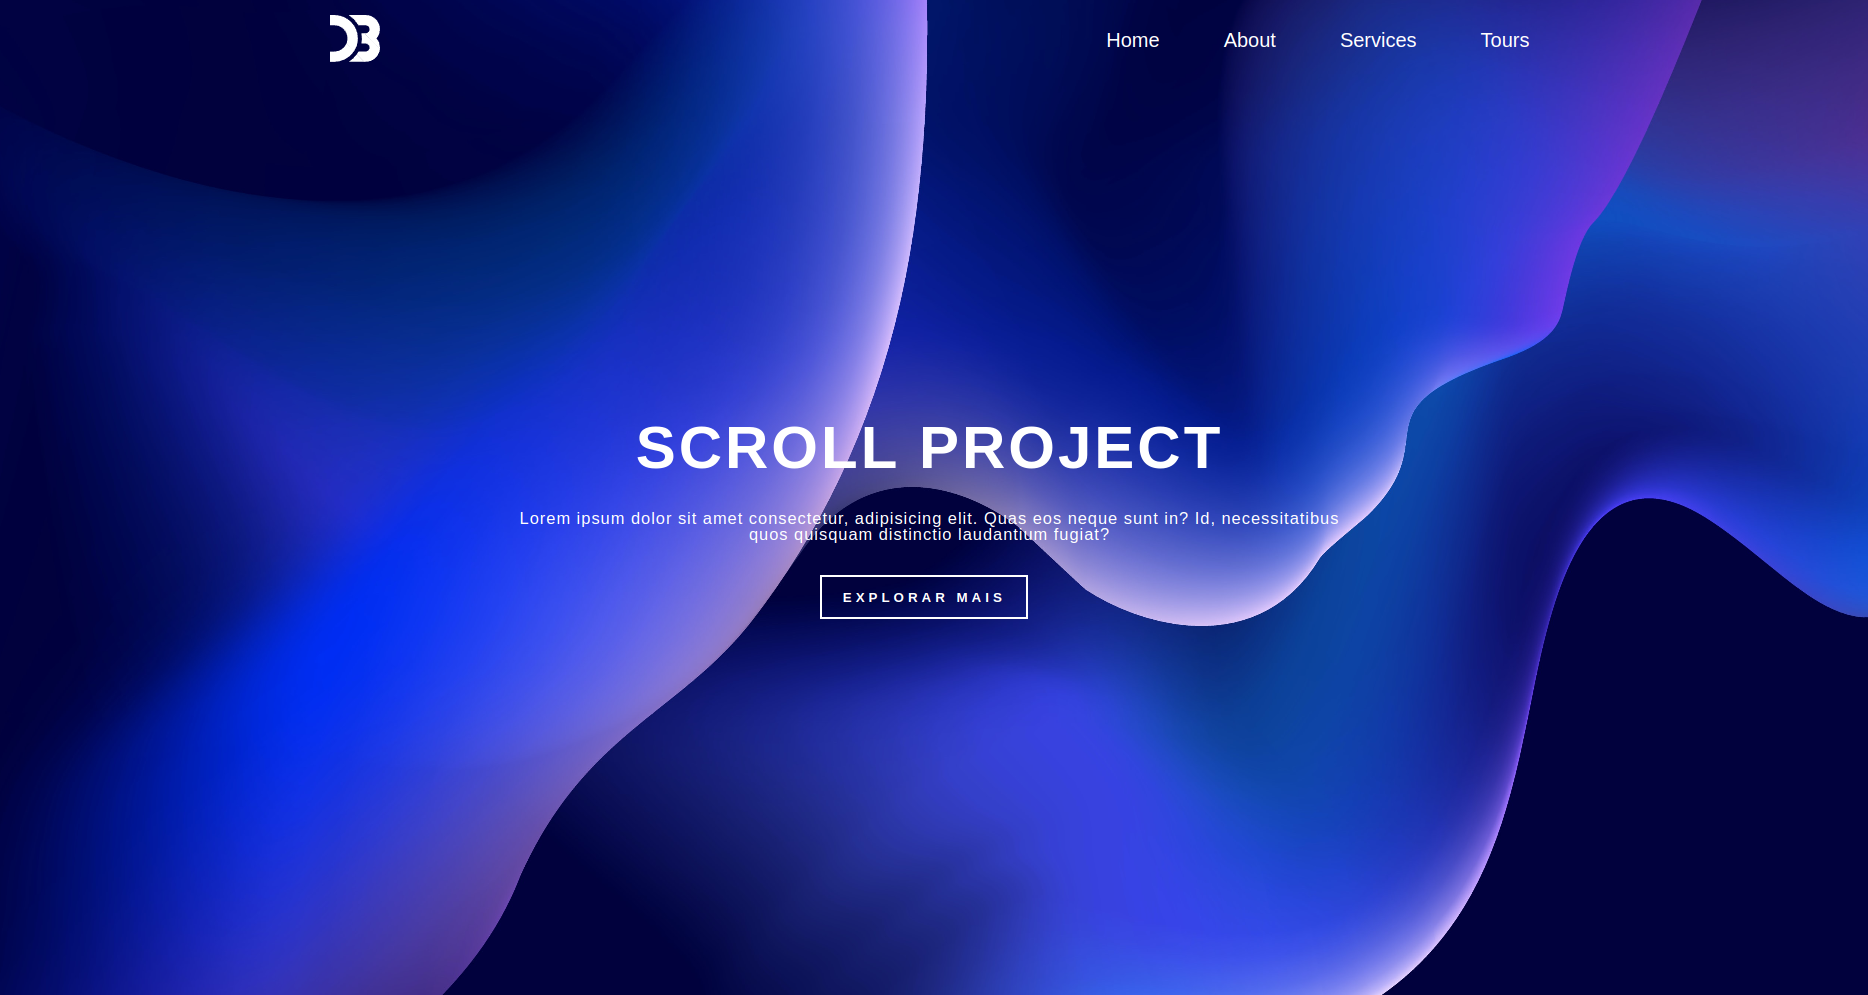
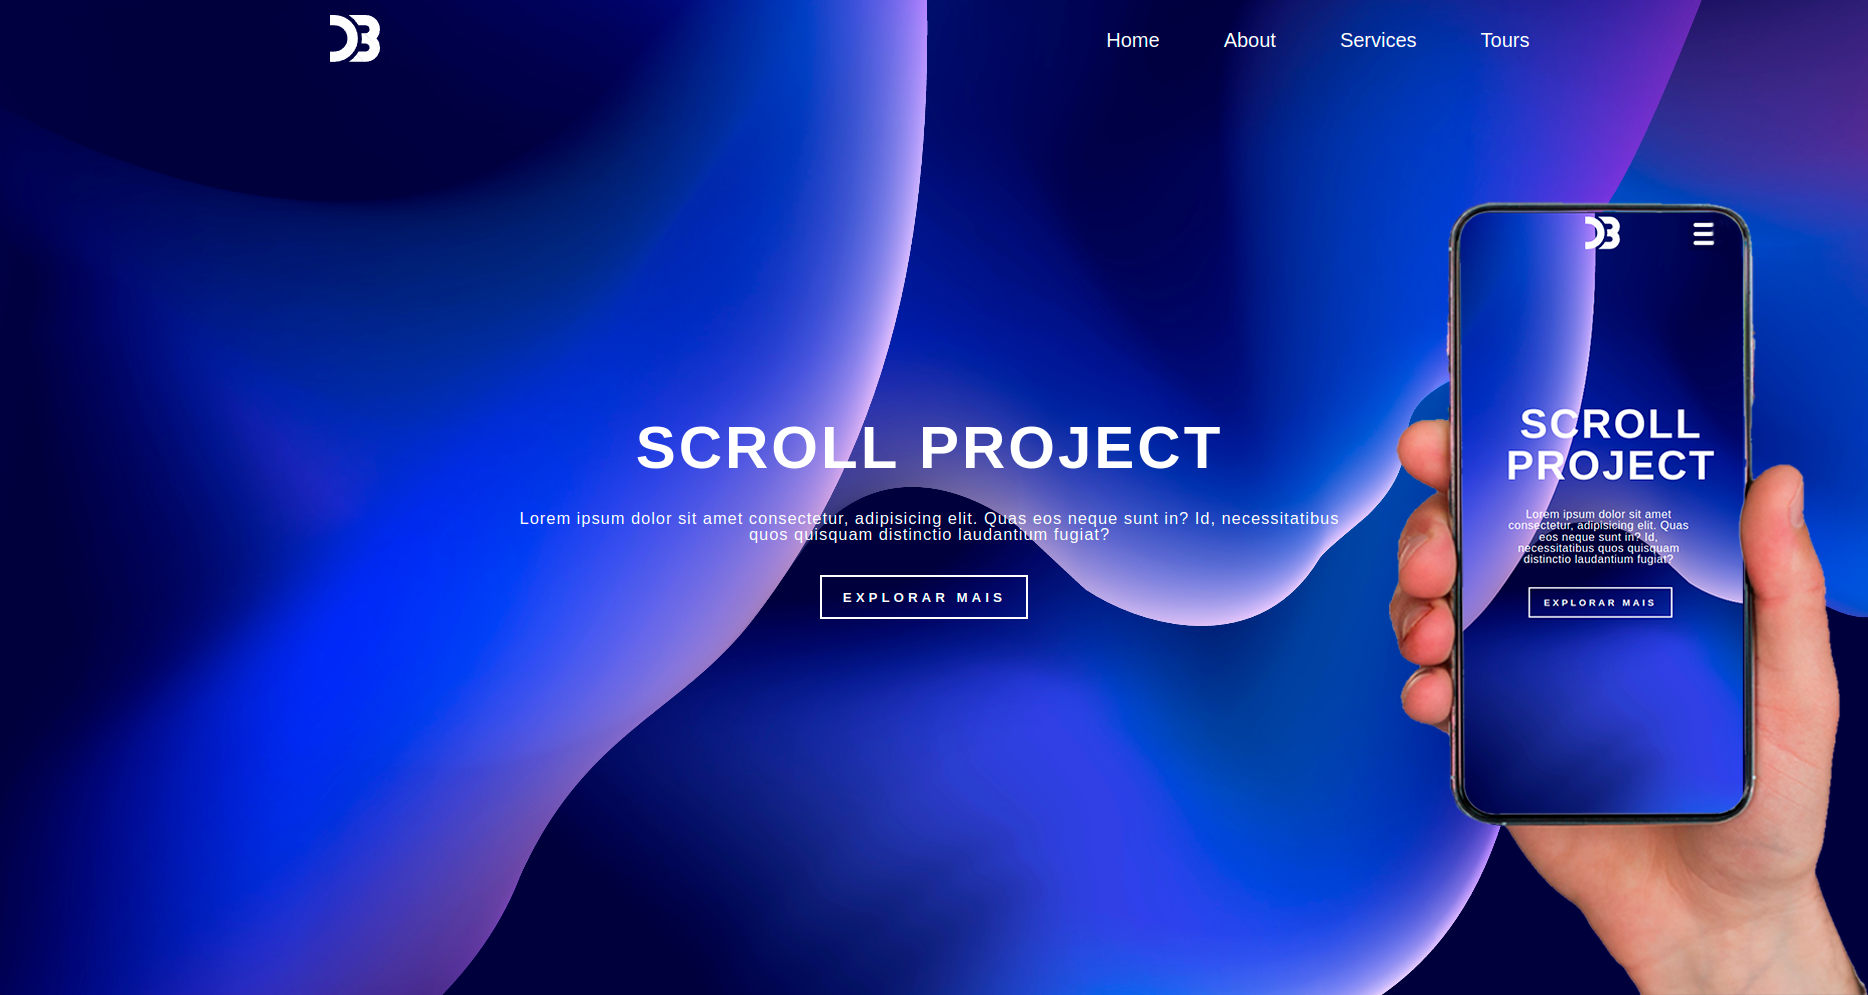
Project Complete

diff --git a/10.Page/css/style.css b/10.Page/css/style.css
@@ -6,6 +6,8 @@ body{
     justify-content: space-between;
     align-items: center;
     width: 100%;
+    position: fixed;
+    padding: 5px;
 }
 .conteudo{
     width: min(75rem, 90%);
@@ -13,6 +15,12 @@ body{
     padding-inline: 3rem;
     height: 100%;
     padding: 1rem 1.5rem;
+}
+.menu-text{
+    margin-right: 20%;
+}
+.image-container{
+    margin: auto;
 }
 header{
     height: 100vh;
@@ -33,6 +41,7 @@ ul li{
 li a {
     text-decoration: none;
     color: white;
+    padding: 2rem;
 }
 section img{
     object-fit: cover;
@@ -132,11 +141,11 @@ footer p{
 /* Button Navbar */
 
 .center {
-    top: 5%;
+    top: 50%;
     left: 90%;
     transform: translate(-50%, -50%);
     position: absolute;
-    width: 50px;
+    width: 30px;
     cursor: pointer;
     display: none;
   }
@@ -166,13 +175,46 @@ footer p{
 
 @media(max-width: 829px){
     .menu-text{
-        display: none;
+        position: absolute;
+        top: 0rem;
+        left: 0rem;
+        z-index: -2;
+        width: 100%;
+        height: 100vh;
+        background-color: #01013d;
+        display: flex;
+        align-items: center;
+        justify-content: space-around;
+        transform: translateX(100%);
+    }
+    .menu-text.active{
+        transform: translateX(0%);
+    }
+    ul{
+        display: flex;
+        flex-flow: column;
+        gap: 7rem;
+        width: 100%;
+    }
+    li{
+        padding: 2rem;
+        text-align: center;
+    }
+    li:hover{
+        background-color: #d6d6d6;
+        transition: all .4s ease-in-out;
+    }
+    li a:hover{
+        color: #01013d;
     }
     .center {
         display: block;
     }
     .text-area button{
         margin-left: 30%;
+    }
+    .menu-container{
+        width: 100%;
     }
 }
 @media(max-width: 650px){
@@ -188,3 +230,7 @@ footer p{
         margin-left: 12%;
     }
 }
+
+
+
+

diff --git a/10.Page/index.html b/10.Page/index.html
@@ -13,23 +13,23 @@
         <section id="home-page">
             <img src="./assets/first-image.jpg">
         </section>
-        <div class="conteudo">
-            <div class="menu-container">
-                <div class="image-container">
-                    <img src="./assets/logo.svg" alt="logo">
-                </div>
-                <div class="center">
-                    <div></div>
-                </div>
-                <nav class="menu-text">
-                    <ul>
-                        <li><a href="#home-page">Home</a></li>
-                        <li><a href="#about">About</a></li>
-                        <li><a href="#services">Services</a></li>
-                        <li><a href="#featured">Tours</a></li>
-                    </ul>
-                </nav>
+        <div class="menu-container">
+            <div class="image-container">
+                <img src="./assets/logo.svg" alt="logo">
             </div>
+            <div class="center">
+                <div></div>
+            </div>
+            <nav class="menu-text">
+                <ul>
+                    <li><a href="#home-page">Home</a></li>
+                    <li><a href="#about">About</a></li>
+                    <li><a href="#services">Services</a></li>
+                    <li><a href="#featured">Tours</a></li>
+                </ul>
+            </nav>
+        </div>
+        <div class="conteudo">
             <div class="text-area">
                 <div>
                     <h1>SCROLL PROJECT</h1>

diff --git a/10.Page/js/main.js b/10.Page/js/main.js
@@ -1,0 +1,19 @@
+const menu = document.querySelector(".menu-container");
+const menuText = document.querySelector(".menu-text");
+const btn = document.querySelector(".center")
+
+    window.addEventListener('scroll',() =>{
+        if (document.body.scrollTop > 50 || document.documentElement.scrollTop > 50){
+            menu.style.backgroundColor = "#01013d";
+            menu.style.transition = "all .3s ease-in-out";
+        }else{
+            menu.style.backgroundColor = "transparent";
+        }
+    });
+
+    btn.addEventListener("click", () => {
+        menuText.classList.toggle('active');
+        menuText.style.transition = "all .3s ease-in-out";
+    });
+
+    
